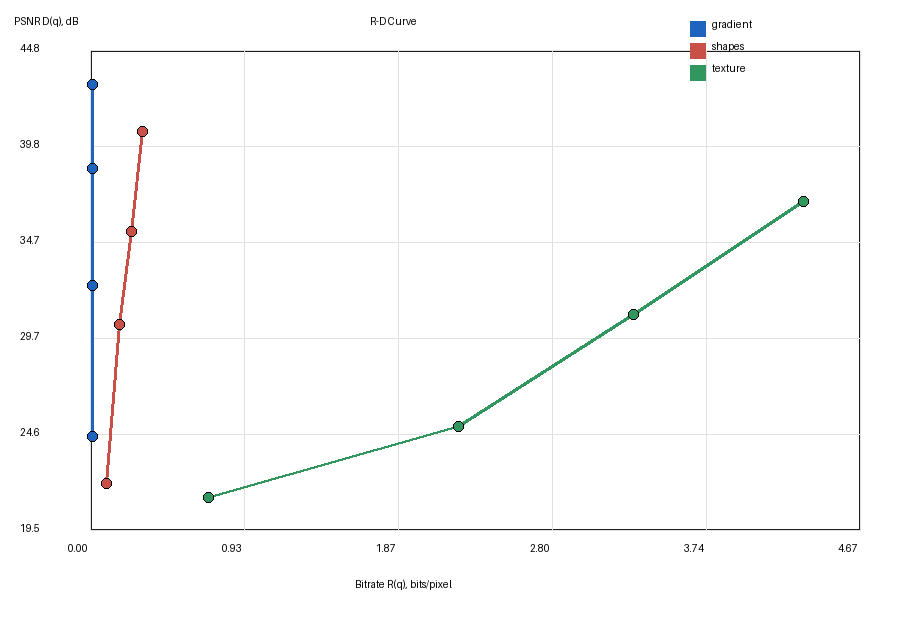
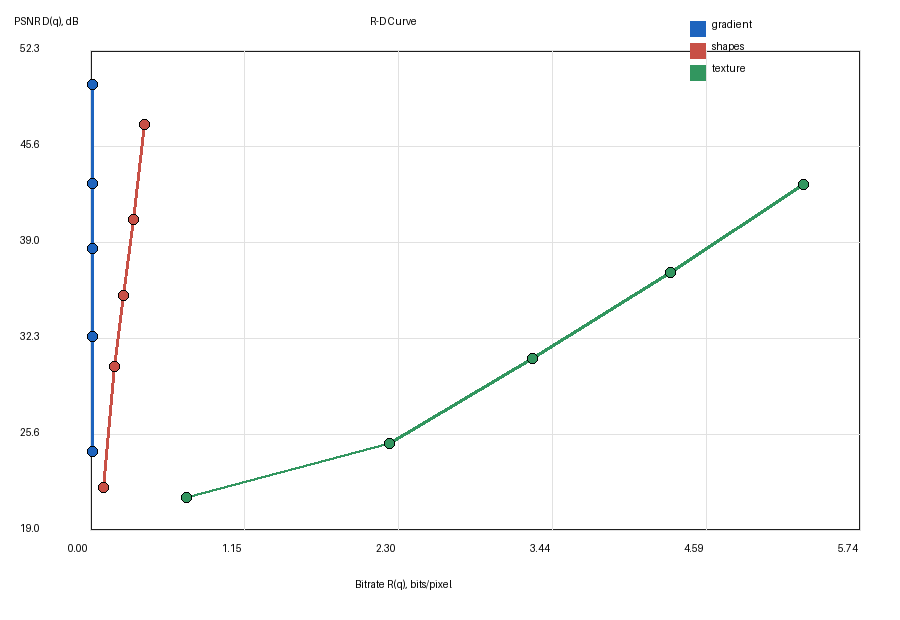
Third Commit

diff --git a/imageDecoder.py b/imageDecoder.py
@@ -20,9 +20,9 @@ def main() -> None:
     """命令行入口：读取参数、调用 decoder、打印 PSNR。"""
 
     parser = argparse.ArgumentParser(description="Decode image.bit and compute PSNR.")
-    parser.add_argument("imageBitFileName", help="Path to the compressed bitstream.")
-    parser.add_argument("quantizationStepSize", type=float, help="Quantization step size q.")
-    parser.add_argument("orgImageFileName", help="Path to the original image.")
+    parser.add_argument("--imageBitFileName", default="received_image.bit", help="Path to the compressed bitstream.")
+    parser.add_argument("--quantizationStepSize", default=16, type=float, help="Quantization step size q.")
+    parser.add_argument("--orgImageFileName", default="test_images\gradient.png", help="Path to the original image.")
     args = parser.parse_args()
 
     value = imageDecoder(args.imageBitFileName, args.quantizationStepSize, args.orgImageFileName)

diff --git a/demo_rd_curve.py b/demo_rd_curve.py
@@ -29,7 +29,7 @@ def run_one_image(image_path: Path, q_values: List[float], result_dir: Path) -> 
         shutil.copyfile("image.recon.png", recon_copy)
 
         points.append((bitrate, psnr_value, image_label))
-        print(f"{image_label:12s} q={q:6g}  R={bitrate:8.4f} bpp  PSNR={psnr_value:8.3f} dB")
+        print(f"{image_label:12s} q={q:6g}  R={bitrate:10.6f} bpp  PSNR={psnr_value:8.3f} dB")
 
     return points
 
@@ -38,7 +38,7 @@ def main() -> None:
     """命令行入口：批量生成 R-D 曲线和 CSV 数据。"""
 
     parser = argparse.ArgumentParser(description="Evaluate R-D curves for several images.")
-    parser.add_argument("images", nargs="+", help="Input image paths.")
+    parser.add_argument("--images", default=["test_images/gradient.png", "test_images/shapes.png", "test_images/texture.png"], nargs="+", help="Input image paths.")
     parser.add_argument("--q", nargs="+", type=float, default=[4, 8, 16, 32, 64], help="Quantization step sizes.")
     parser.add_argument("--out", default="results", help="Output directory.")
     args = parser.parse_args()